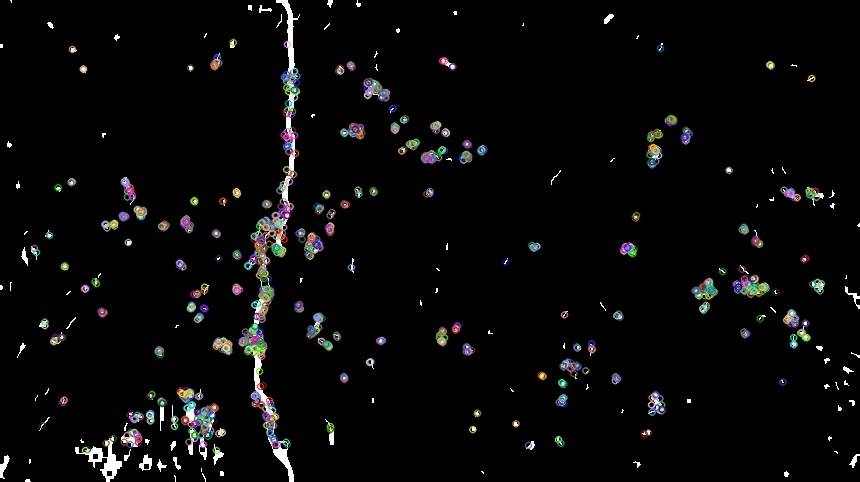
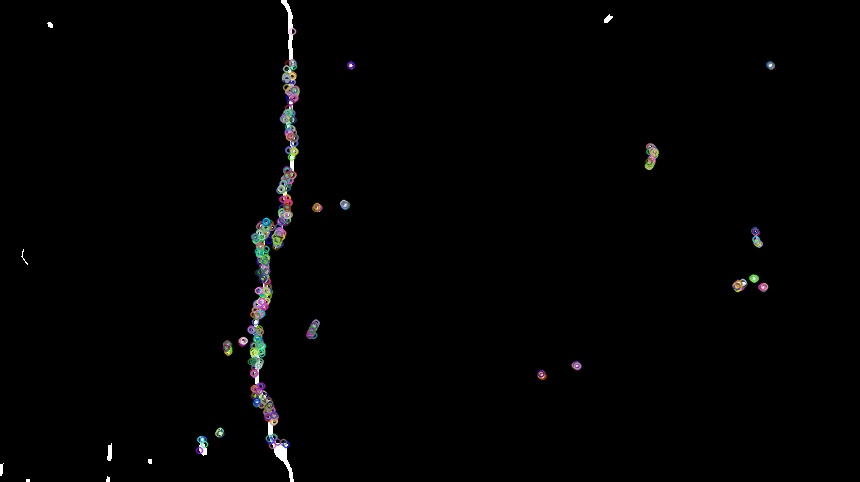
Good enough

diff --git a/src/crack_detect/crack_detect.py b/src/crack_detect/crack_detect.py
@@ -36,7 +36,7 @@ def crack_detect_method_1(img_src: str) -> None:
     # cv2.imshow("img_log", img_log)
 
     # Image smoothing: bilateral filter
-    bilateral = cv2.bilateralFilter(img_log, 5, 25, 25)
+    bilateral = cv2.bilateralFilter(img_log, 5, 10, 10)
     # cv2.imshow("bilateral", bilateral)
 
     # ret, binary = cv2.threshold(
@@ -48,7 +48,8 @@ def crack_detect_method_1(img_src: str) -> None:
     # max value will be half of max - min from bilateral
 
     # TODO: Figure out why bilateral image won't work
-    edges = cv2.Canny(blur, 100, 150)
+    # edges = cv2.Canny(blur, 100, 150)
+    edges = cv2.Canny(bilateral, 25, 50)
     # cv2.imshow("edges", edges)
 
     # Morphological Closing Operator
@@ -68,16 +69,8 @@ def crack_detect_method_1(img_src: str) -> None:
 
     img_file_name = os.path.basename(img_src)
     final_img_path = os.path.abspath(f"test-images/concrete/completed/{img_file_name}")
-    cv2.imwrite(final_img_path, result)
-
-    return src, result
-
-    # Use plot to show original and output image
-    plt.subplot(121), plt.imshow(src)
-    plt.title("Original"), plt.xticks([]), plt.yticks([])
-    plt.subplot(122), plt.imshow(result, cmap="gray")
-    plt.title("Output Image"), plt.xticks([]), plt.yticks([])
-    plt.show()
-
+    # cv2.imwrite(final_img_path, result)
     cv2.waitKey(0)
     cv2.destroyAllWindows()
+
+    return src, result
